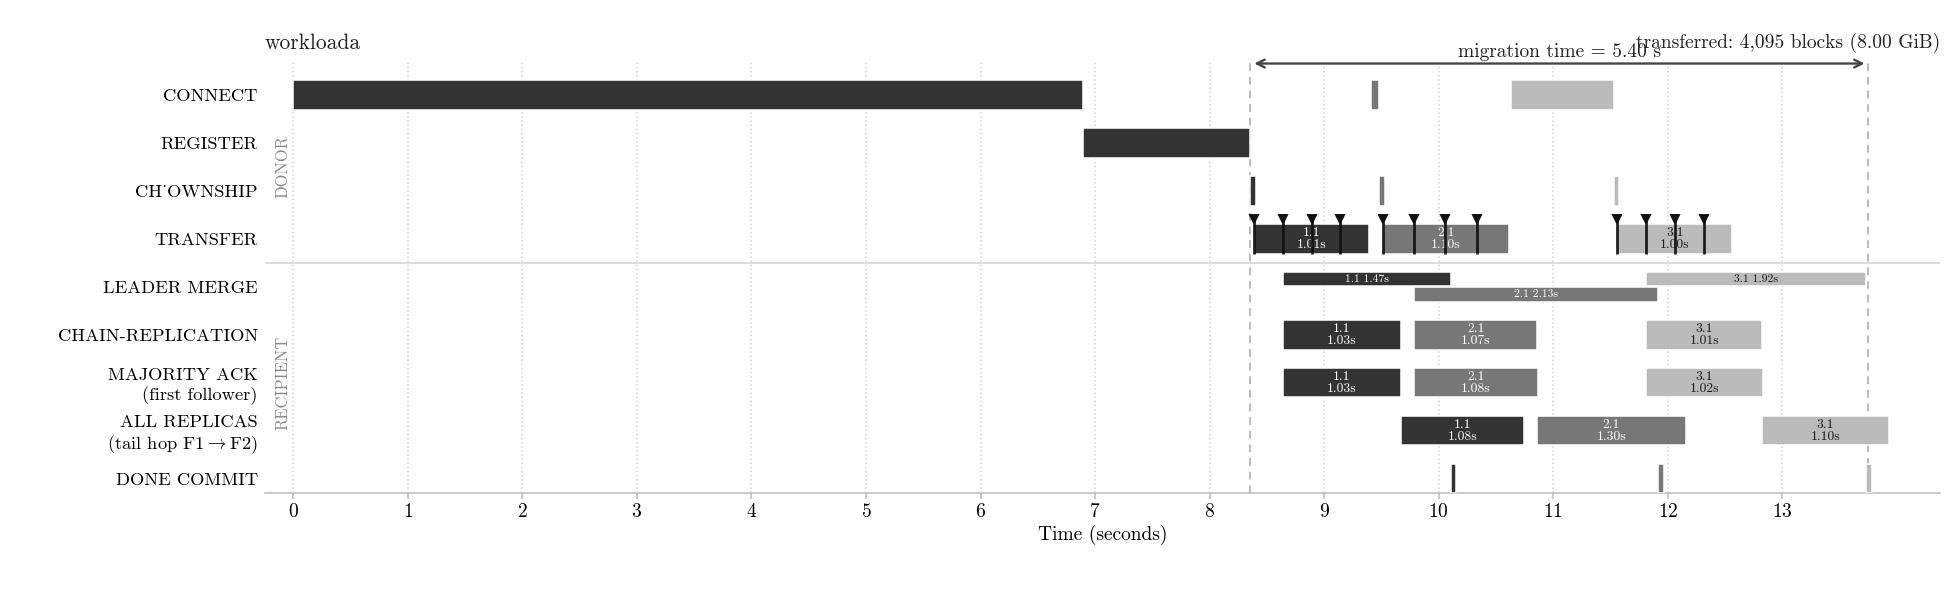
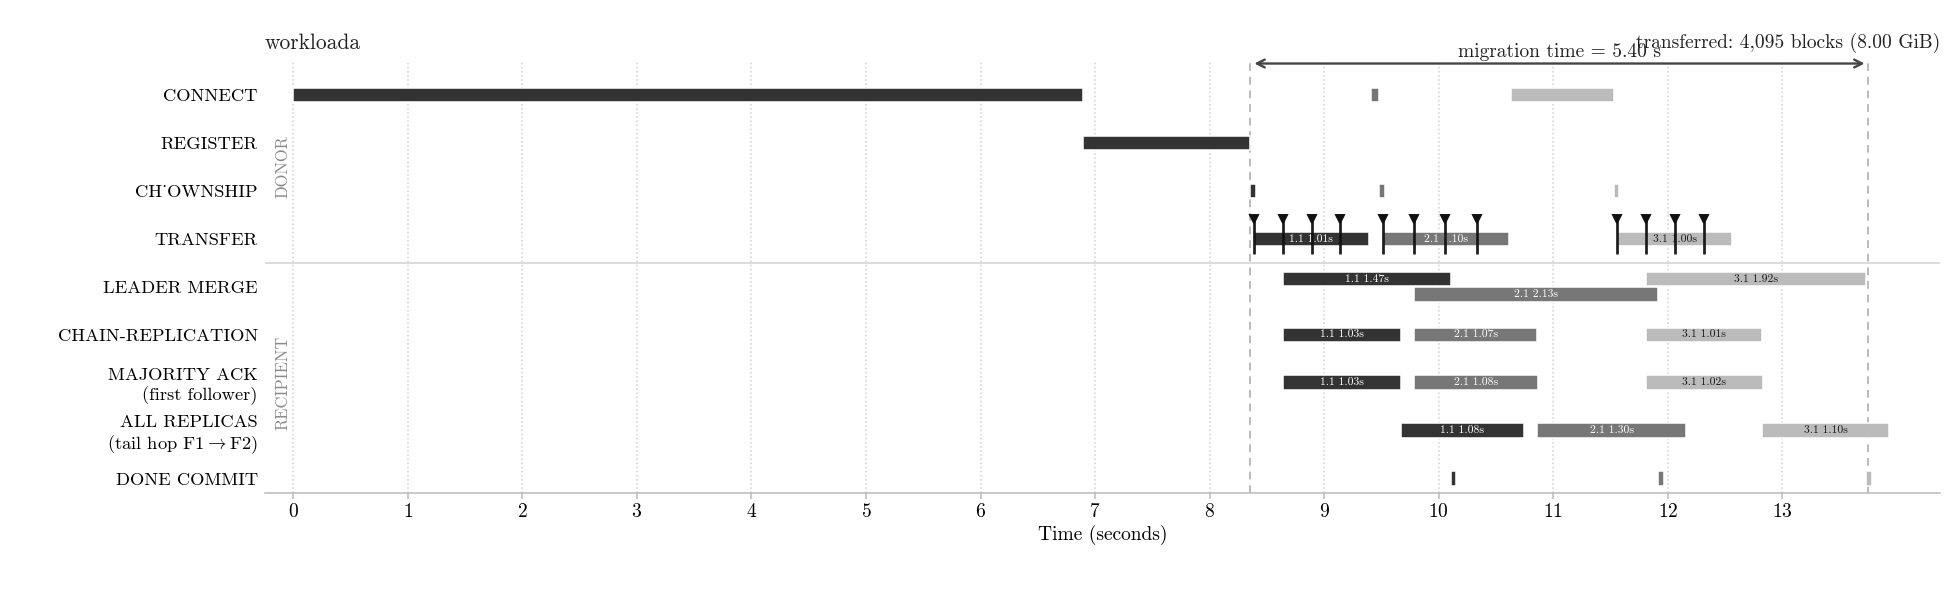
gantt: one bar height for every phase; overlapping sessions keep offset sub-lanes

diff --git a/experiments/tools/plot_phase_gantt.py b/experiments/tools/plot_phase_gantt.py
@@ -273,9 +273,10 @@ for idx, (sg, ri, s) in enumerate(rows):
     for ph in PHASES:
         if ph not in s or s[ph][1] is None: continue
         a, b = s[ph]; y = LANE_Y[ph]; w = b-a
-        bar_h = BAR_H
+        # Every bar has the same height; lanes with overlapping sessions offset
+        # alternate sessions into two sub-lanes instead of stacking them.
+        bar_h = BAR_H * 0.48
         if _overlap.get(ph):
-            bar_h = BAR_H * 0.48
             y = y + (BAR_H * 0.26 if idx % 2 == 0 else -BAR_H * 0.26)
         is_cold = (ph == "CHAIN" and s.get("_cold"))
         ec = COLD_EC if is_cold else "white"
@@ -289,14 +290,11 @@ for idx, (sg, ri, s) in enumerate(rows):
             continue
         dlabel = f"{w:.2f}s" if w >= 1 else f"{w*1000:.0f}ms"
         txtcol = SG_TXT[sg]
-        if w > 0.22 and bar_h < BAR_H:
+        if w > 0.30:
             ax.text((a-t0)+w/2, y, f"{sg[-1]}.{ri} {dlabel}", ha="center", va="center",
                     fontsize=6, color=txtcol, zorder=6, fontweight="bold")
-        elif w > 0.22:
-            ax.text((a-t0)+w/2, y, f"{sg[-1]}.{ri}\n{dlabel}", ha="center", va="center",
-                    fontsize=7, color=txtcol, zorder=6, linespacing=1.0, fontweight="bold")
         elif w > 0.05:
-            ax.text((a-t0)+w/2, y+BAR_H/2+0.06, f"{sg[-1]}.{ri} {dlabel}", ha="center", va="bottom",
+            ax.text((a-t0)+w/2, y+bar_h/2+0.04, f"{sg[-1]}.{ri} {dlabel}", ha="center", va="bottom",
                     fontsize=6, color="#777", zorder=6, rotation=90)
 
 # --- per-chunk start ticks, drawn in EACH phase's OWN lane at that phase's
